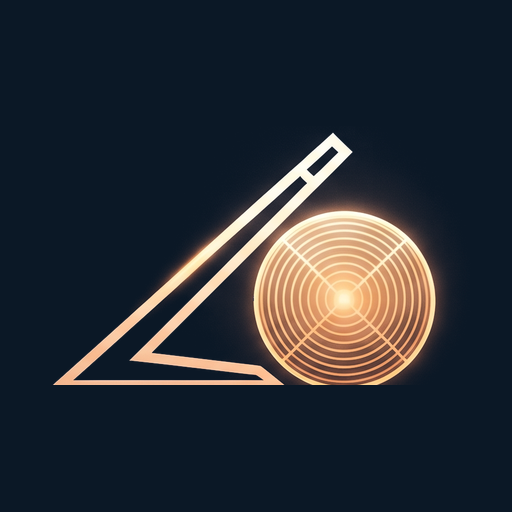
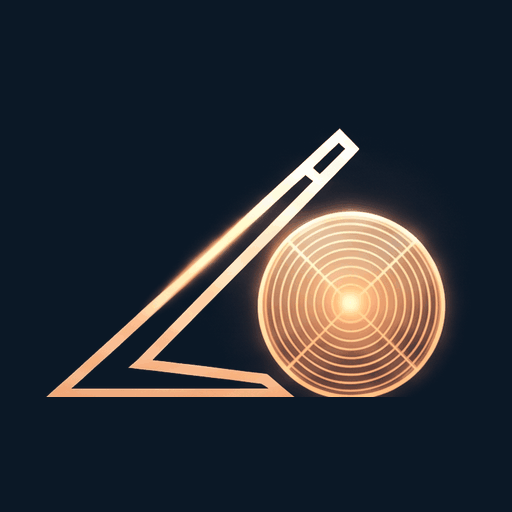
Add files via upload

Changed region(s): [[0.0938, 0.25, 0.9062, 0.7812]]

diff --git a/index.html b/index.html
@@ -11,7 +11,7 @@
 <link rel="manifest" href="manifest.json">
 <link rel="apple-touch-icon" href="icon-192.png">
 <link rel="icon" href="icon-192.png">
-<!-- build: 1판-17 큐보드 로고 -->
+<!-- build: 1판-19 가로 로고 꽉 채움 -->
 <title>큐보드 · CUEBOARD</title>
 <style>
   html{height:auto;}
@@ -1561,28 +1561,27 @@ function QrScan({
    ★ 서비스 이름을 "큐보드(CUEBOARD)" 로 정했다 (2026-09-04).
       사진 넘김 자리를 로고 하나로 바꿨다.
       제목 글자 "당구 스코어" 는 없앴다 — 로고에 이름이 이미 있다.
-   ⚠ logo.png 를 index.html 과 같은 자리에 올려야 한다 */
+   ⚠ logo.jpg 를 index.html 과 같은 자리에 올려야 한다.
+     ★ png 는 688KB 였다. 그러데이션이 부드러워 jpg 로 바꾸니 70KB 가 됐다.
+       앱을 열 때마다 받는 그림이라 크기가 중요하다 */
 function Banner() {
   const [ok, setOk] = useState(true);
+  /* ★ 가로형 로고를 화면 폭에 꽉 채운다 (사용자 지시).
+        전에는 세로형이라 가운데에 작게 떠서 위아래가 허전했다.
+        로고 비율이 약 3.76:1 이라 폭을 채우면 높이가 저절로 잡힌다 */
   return /*#__PURE__*/React.createElement("div", {
     style: {
       position: "relative",
-      padding: "16px 16px 14px",
-      background: "radial-gradient(ellipse at 50% 62%, #16293c 0%, #0B1826 62%, #08131F 100%)",
-      display: "flex",
-      alignItems: "center",
-      justifyContent: "center",
-      minHeight: "clamp(120px,20vh,190px)",
-      borderBottom: "1px solid rgba(232,184,56,.28)"
+      background: "#0B1826",
+      borderBottom: "1px solid rgba(232,184,56,.28)",
+      lineHeight: 0
     }
   }, ok ? /*#__PURE__*/React.createElement("img", {
-    src: "logo.png",
+    src: "logo.jpg",
     alt: "큐보드",
     onError: () => setOk(false),
     style: {
-      maxWidth: "min(320px,82%)",
-      maxHeight: "clamp(104px,17vh,168px)",
-      objectFit: "contain",
+      width: "100%",
       display: "block"
     }
   }) :
@@ -1590,7 +1589,9 @@ function Banner() {
   /* 그림을 못 받으면 글자로라도 보이게 한다 */
   React.createElement("div", {
     style: {
-      textAlign: "center"
+      padding: "26px 16px",
+      textAlign: "center",
+      lineHeight: 1.4
     }
   }, /*#__PURE__*/React.createElement("div", {
     style: {
